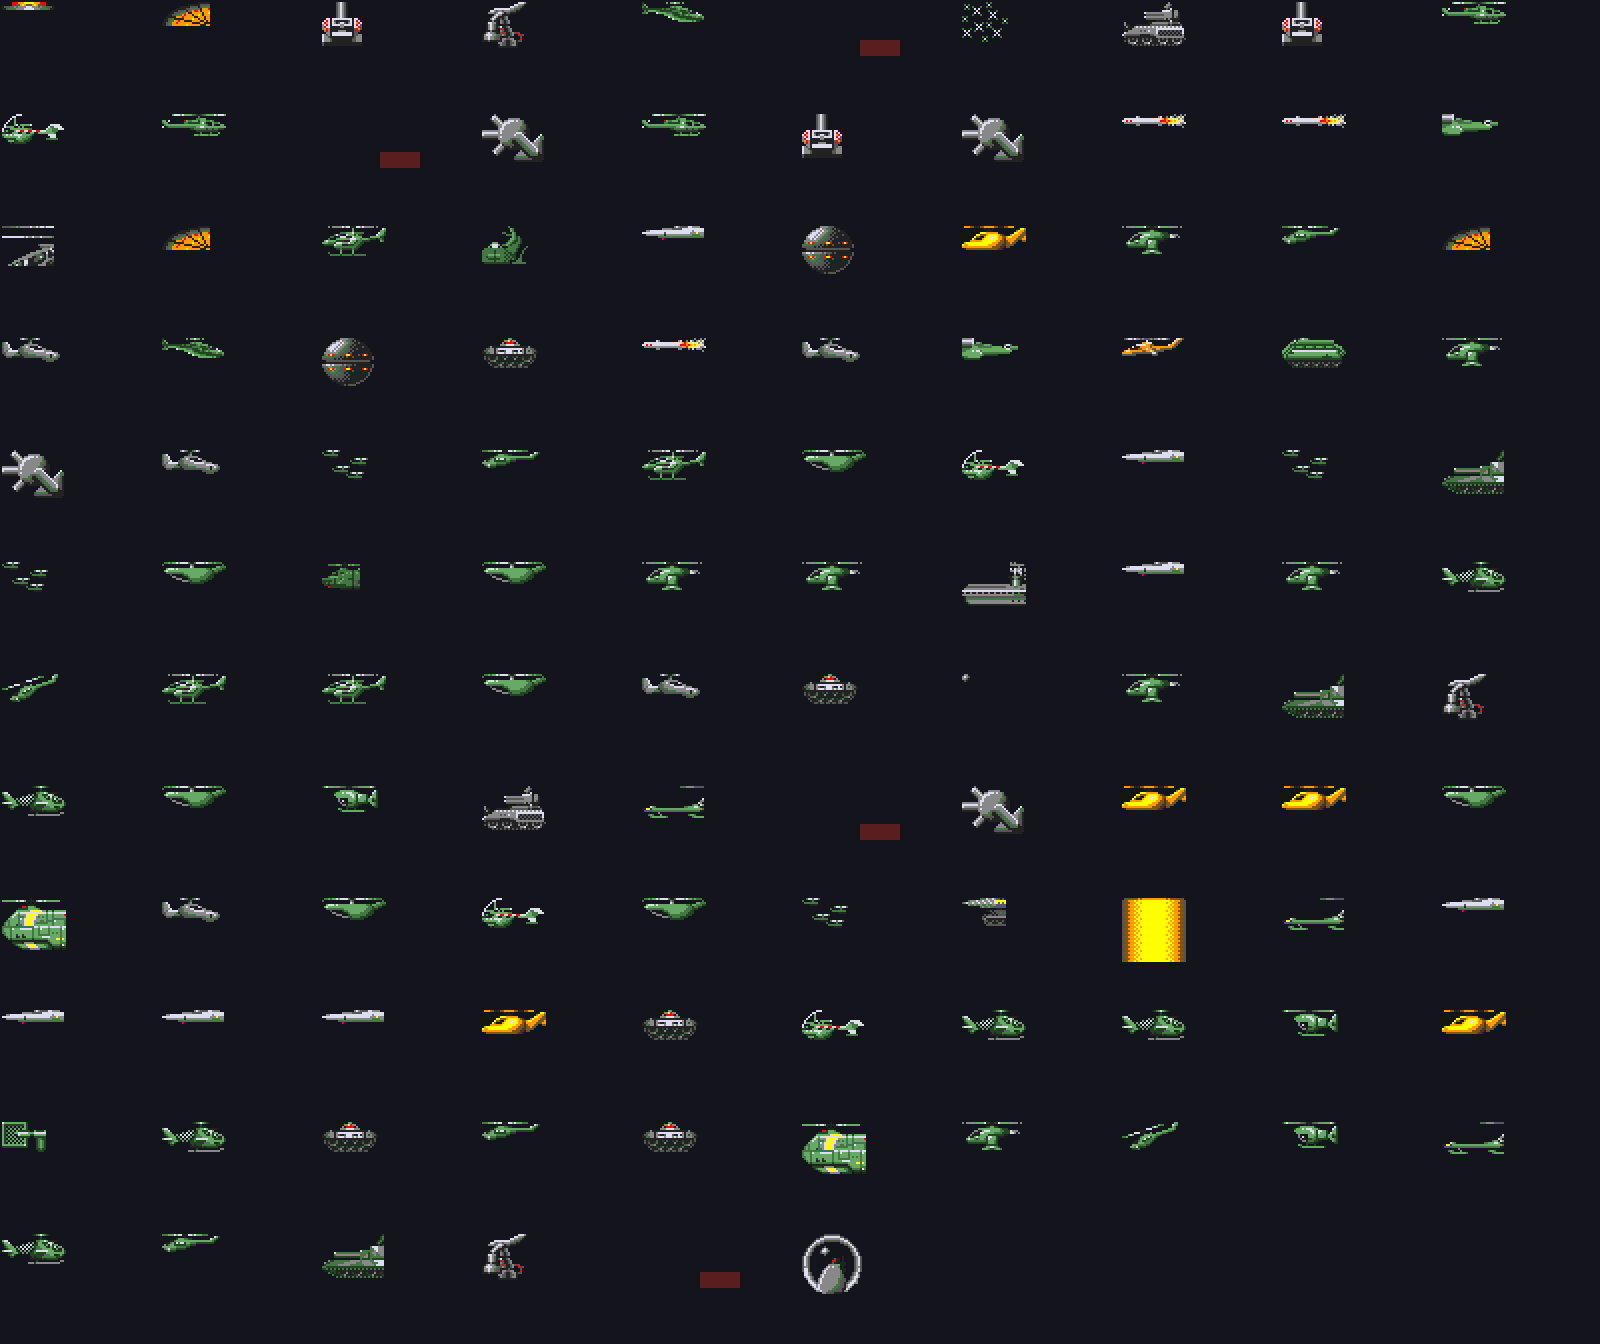
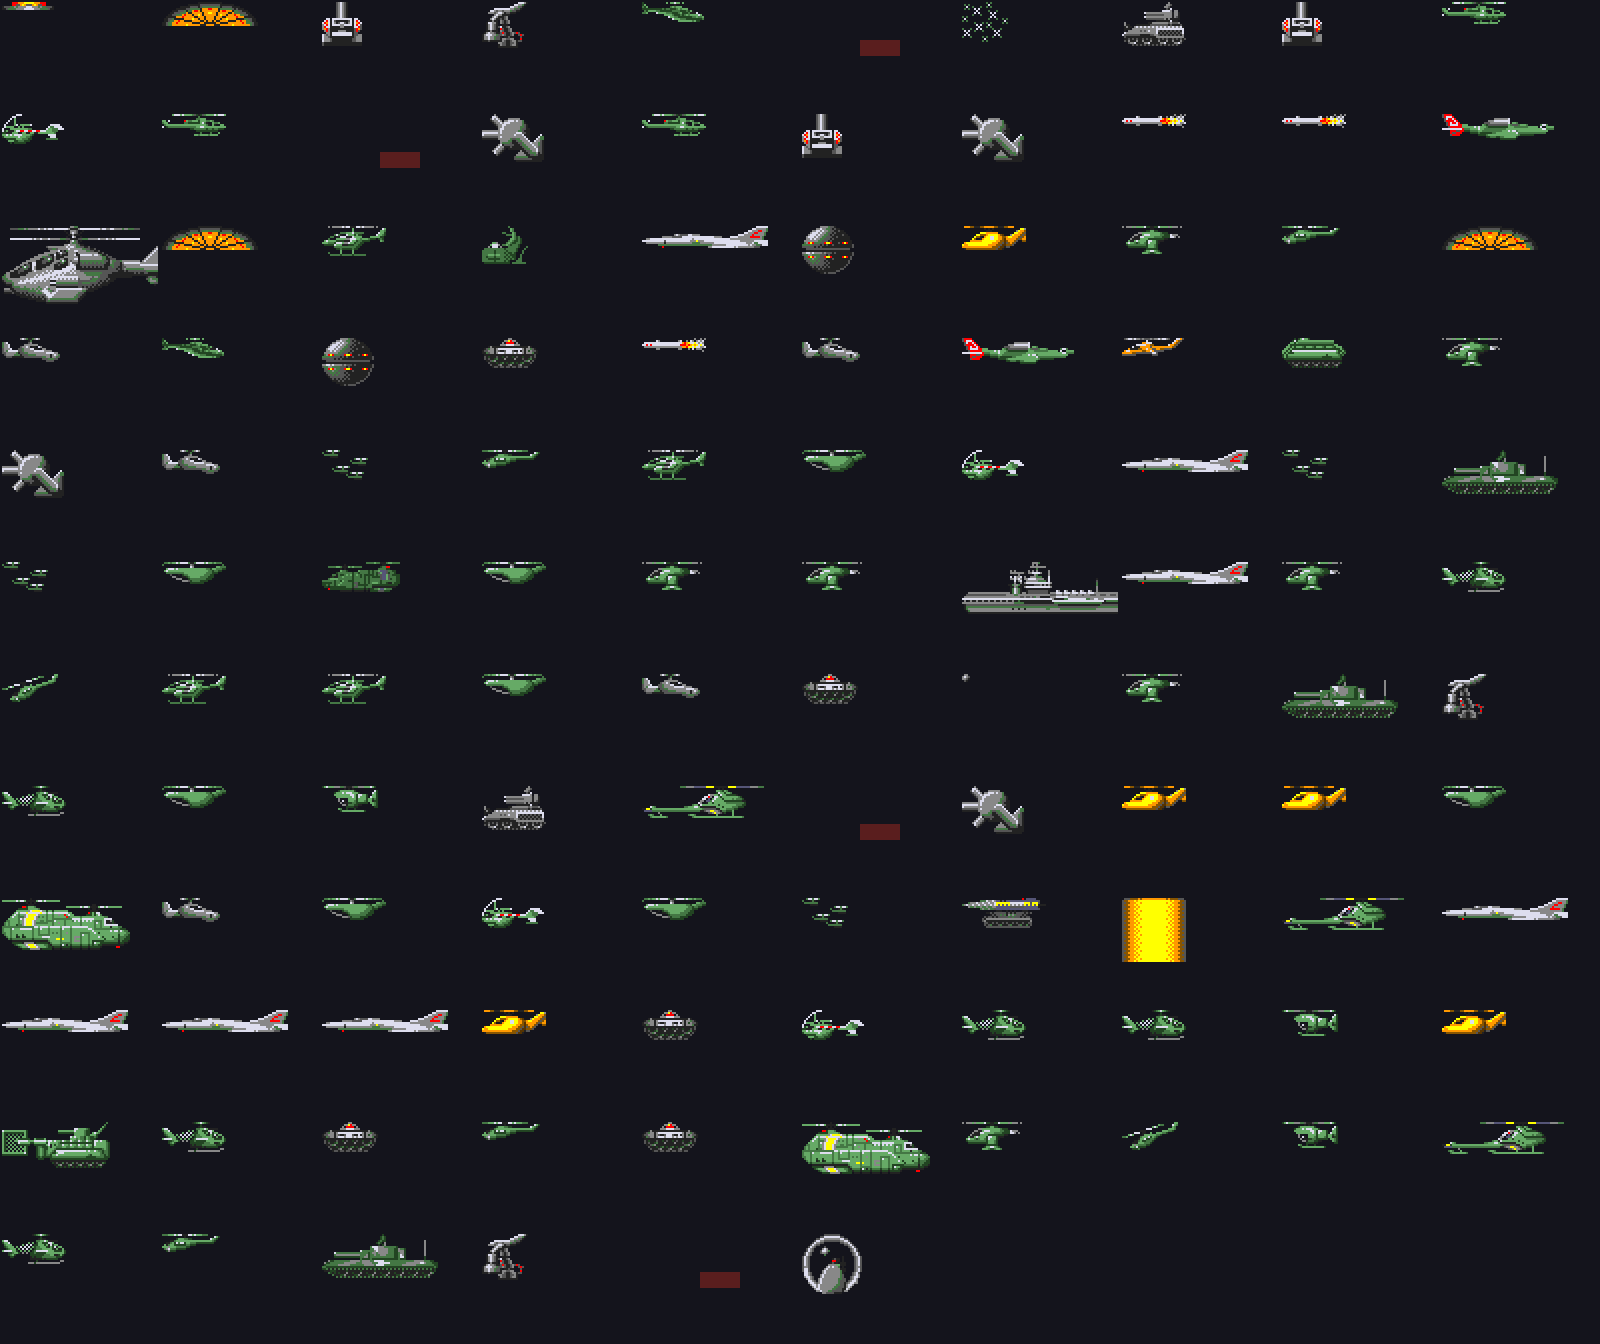
Draw composite objects whole
Many objects are chains of sprites: a table at $49D4C gives each sprite
an offset and the next piece, and sub_712D8 draws the linked pieces
first at the same position. The remake, the level maps and the wave
images only drew the first piece (and missed the offsets), so the
gunship boss, tanks, jets, wrecks and other big enemies were cut off.
Hitboxes now cover the whole chain.

diff --git a/remake/js/game.js b/remake/js/game.js
@@ -186,10 +186,15 @@ SW.game = (function () {
 
   // Boxes in object coordinates (sprites are drawn 15 px higher, like sub_712AA).
   function spriteBox(i, x, y) {
-    const s = SW.gfx.sprite(i);
+    let s = SW.gfx.sprite(i);
     if (!s) return { l: x - 8, r: x + 8, t: y - 8, b: y + 8 };
-    const l = x - s.hx, t = y - s.hy;
-    return { l: l + 3, r: l + s.w - 3, t: t + 2, b: t + s.h - 2 };
+    const box = { l: 1e9, r: -1e9, t: 1e9, b: -1e9 };
+    for (let n = 0; s && n < 8; n++, s = s.next ? SW.gfx.sprite(s.next) : null) {   // whole chain
+      const l = x - s.hx, t = y - s.hy;
+      box.l = Math.min(box.l, l + 3); box.r = Math.max(box.r, l + s.w - 3);
+      box.t = Math.min(box.t, t + 2); box.b = Math.max(box.b, t + s.h - 2);
+    }
+    return box;
   }
   function enemyBox(e) {
     if (e.hw && e.hh) return { l: e.x - e.hw, r: e.x + e.hw, t: e.y - e.hh, b: e.y + e.hh };
@@ -361,9 +366,13 @@ SW.game = (function () {
 
   // ---------------------------------------------------------------- draw
 
-  function drawSprite(i, x, y) {
+  // sub_712D8: a sprite linked to another piece draws that piece first,
+  // at the same position, so composite objects come out whole.
+  function drawSprite(i, x, y, depth) {
     const s = SW.gfx.sprite(i);
-    if (s) ctx.drawImage(s.cv, Math.round(x - s.hx), Math.round(y - 15 - s.hy));
+    if (!s) return;
+    if (s.next && (depth || 0) < 8) drawSprite(s.next, x, y, (depth || 0) + 1);
+    ctx.drawImage(s.cv, Math.round(x - s.hx), Math.round(y - 15 - s.hy));
   }
 
   function text(str, x, y, colour, align) {

diff --git a/remake/js/gfx.js b/remake/js/gfx.js
@@ -4,6 +4,10 @@
 SW.gfx = (function () {
   const { be16, bes16, be32, tracks } = SW.adf;
   const SPRITE_PTRS = 0x4A498, SPRITE_REC_BIAS = 0x5F3B8, SPRITE_PIX = 0x4AAD8;
+  // Per sprite: x/y offset (signed bytes) and the next piece of a composite
+  // object (word, 0 = none). $715C0 folds the offset into the hotspot and the
+  // link into record field $C; sub_712D8 draws the linked piece first.
+  const SPRITE_LINKS = 0x49D4C;
   const PALETTES = 0x67732, LEVEL_TRACKS = 0x6B924, LEVEL_PTRS = 0x69E3C;
   const GROUND_BANK = 0x62272;
 
@@ -32,7 +36,10 @@ SW.gfx = (function () {
         px[y * w + x] = c;
       }
     }
-    return { w, h: rows, hx: bes16(mem, rec + 6), hy: bes16(mem, rec + 8), px };
+    const dx = (mem[SPRITE_LINKS + idx * 4] << 24) >> 24, dy = (mem[SPRITE_LINKS + idx * 4 + 1] << 24) >> 24;
+    const next = be16(mem, SPRITE_LINKS + idx * 4 + 2);
+    return { w, h: rows, hx: bes16(mem, rec + 6) - dx, hy: bes16(mem, rec + 8) - dy, px,
+             next: next > 0 && next < 400 ? next : 0 };
   }
 
   function amigaColour(c) {
@@ -117,7 +124,7 @@ SW.gfx = (function () {
     let s = spriteCache.get(i);
     if (s === undefined) {
       const d = spriteData[i];
-      s = d ? { cv: toCanvas(d.w, d.h, d.px, true), w: d.w, h: d.h, hx: d.hx, hy: d.hy } : null;
+      s = d ? { cv: toCanvas(d.w, d.h, d.px, true), w: d.w, h: d.h, hx: d.hx, hy: d.hy, next: d.next } : null;
       spriteCache.set(i, s);
     }
     return s;

diff --git a/remake/index.html b/remake/index.html
@@ -33,12 +33,12 @@
   </div>
   <canvas id="screen" width="320" height="200"></canvas>
 </div>
-<script src="js/hints.js?v=8"></script>
-<script src="js/adf.js?v=8"></script>
-<script src="js/gfx.js?v=8"></script>
-<script src="js/input.js?v=8"></script>
-<script src="js/enemies.js?v=8"></script>
-<script src="js/game.js?v=8"></script>
+<script src="js/hints.js?v=9"></script>
+<script src="js/adf.js?v=9"></script>
+<script src="js/gfx.js?v=9"></script>
+<script src="js/input.js?v=9"></script>
+<script src="js/enemies.js?v=9"></script>
+<script src="js/game.js?v=9"></script>
 <script>
 "use strict";
 (function () {

diff --git a/Research/tools/waves.py b/Research/tools/waves.py
@@ -149,6 +149,40 @@ def sprite_image(mem, idx, pal):
     return img
 
 
+SPRITE_LINKS = 0x49D4C   # per sprite: dx, dy (signed bytes), next piece (word)
+
+
+def sprite_hotspot(mem, idx):
+    """Hotspot after $715C0 folds in the offset from the link table."""
+    rec = (struct.unpack_from(">I", mem, SPRITE_PTRS + idx * 4)[0] + SPRITE_REC_BIAS) & 0xFFFFFFFF
+    hx, hy = struct.unpack_from(">hh", mem, rec + 6)
+    dx, dy, nxt = struct.unpack_from(">bbh", mem, SPRITE_LINKS + idx * 4)
+    return hx - dx, hy - dy, (nxt if 0 < nxt < 400 else 0)
+
+
+def composite(mem, idx, pal_unused=None):
+    """Whole object as sub_712D8 draws it: (rows, hx, hy), linked pieces under."""
+    pieces, n = [], idx
+    while n and len(pieces) < 8:
+        hx, hy, nxt = sprite_hotspot(mem, n)
+        pieces.append((sprite_image(mem, n, None), hx, hy))
+        n = nxt
+    if idx == 0:
+        hx, hy, _ = sprite_hotspot(mem, 0)
+        pieces = [(sprite_image(mem, 0, None), hx, hy)]
+    left = min(-hx for _, hx, _ in pieces)
+    top = min(-hy for _, _, hy in pieces)
+    right = max(-hx + len(img[0]) for img, hx, _ in pieces)
+    bottom = max(-hy + len(img) for img, _, hy in pieces)
+    out = [[0] * (right - left) for _ in range(bottom - top)]
+    for img, hx, hy in reversed(pieces):          # linked pieces first, the head on top
+        for y, row in enumerate(img):
+            for x, c in enumerate(row):
+                if c:
+                    out[y - hy - top][x - hx - left] = c
+    return out, -left, -top
+
+
 def timeline(mem, lv, events, path):
     """One row per wave: clock bar on the left, sprite on the right."""
     pal = [((c >> 8 & 15) * 17, (c >> 4 & 15) * 17, (c & 15) * 17)
@@ -167,7 +201,7 @@ def timeline(mem, lv, events, path):
         for k in range(min(count or 1, 6)):
             if not frames:
                 break
-            img = sprite_image(mem, frames[0][0], pal)
+            img = composite(mem, frames[0][0])[0]
             for yy, row in enumerate(img[:row_h - 2]):
                 for xx, c in enumerate(row):
                     if c and x0 + xx < width:
@@ -193,7 +227,7 @@ def legend(mem, uses, path):
                 for xx in range(x0 + 30, x0 + 50):
                     px[yy][xx] = (90, 30, 30)
             continue
-        img = sprite_image(mem, frames[0][0], pal)
+        img = composite(mem, frames[0][0])[0]
         for yy, row in enumerate(img[:cell_h - 2]):
             for xx, c in enumerate(row[:cell_w - 2]):
                 if c:

diff --git a/Research/tools/maps.py b/Research/tools/maps.py
@@ -23,7 +23,7 @@ import sys
 sys.path.insert(0, __file__.rsplit("/", 1)[0])
 from extract import tracks, write_png  # noqa: E402
 from levels import LEVEL_PTRS, LEVEL_TRACKS, PALETTES, column_pixels, stream  # noqa: E402
-from waves import scripts, sprite_image, walk  # noqa: E402
+from waves import composite, scripts, walk  # noqa: E402
 
 GROUND_BANK = 0x62272
 LEVEL_LEN = 4704
@@ -57,11 +57,6 @@ def scenery(mem, level, length):
         elif w:
             out.append((pos + 0x150, w))
     return out
-
-
-def sprite_rec(mem, idx):
-    rec = (struct.unpack_from(">I", mem, 0x4A498 + idx * 4)[0] + 0x5F3B8) & 0xFFFFFFFF
-    return struct.unpack_from(">hh", mem, rec + 6)
 
 
 def blit(px, img, x0, y0, pal):
@@ -112,8 +107,8 @@ def main():
         # scenery objects
         objs = scenery(mem, level, LEVEL_LEN)
         for wx, spr in objs:
-            hx, hy = sprite_rec(mem, spr)
-            blit(px, sprite_image(mem, spr, pal), wx - hx, SCENERY_Y - hy, pal)
+            img, hx, hy = composite(mem, spr)       # linked pieces too (sub_712D8)
+            blit(px, img, wx - hx, SCENERY_Y - hy, pal)
 
         # enemy waves: icon where the wave enters (clock + one screen)
         band = BACK_H + GROUND_H
@@ -129,7 +124,7 @@ def main():
                     if 0 <= xx < width:
                         px[yy][xx] = (200, 160, 40)
             if frames:
-                img = sprite_image(mem, frames[0][0], pal)
+                img = composite(mem, frames[0][0])[0]
                 blit(px, [r[:40] for r in img[:BAND_H - 6]],
                      x - min(len(img[0]), 40) // 2, band + 4 + (lane % 2) * 2, pal)
             lane += 1

diff --git a/Research/NOTES.md b/Research/NOTES.md
@@ -117,6 +117,17 @@ Two tasks start with each level, before the wave scheduler (`$6EECC`):
 - Setup routine `$715C0` relocates 400 object records and builds their masks.
 - Pointer table `$4A498` (400 longs, record = value + `$5F3B8`).
 - Record: `+0` width (words), `+2` rows, `+6/+8` hotspot, `+$E` pixel offset from `$4AAD8`.
+- **Composite objects**: table `$49D4C`, 4 bytes per sprite: x/y offset
+  (signed bytes) and the next piece (word, 0 = none). `$715C0` subtracts the
+  offset from the hotspot and stores the link in record field `$C`;
+  `sub_712D8` draws the linked piece first, at the same position, then the
+  sprite itself (recursively), so one sprite number draws a whole object.
+  88 sprites use it: e.g. the jet 85+86, the three-piece plane 94→95→96,
+  tanks 162+163 (and wrecks, raised 12 px), the gunship boss
+  240→241→246→244→245, boss B's rear 218+219, the scenery stack
+  361→362→363; others only shift (jeep frames −2 px, mines −16 px).
+  The sprite sheets show single pieces; the maps, wave images and the remake
+  draw whole objects.
 - Pixels: row-interleaved, 4 bitplanes per row. Masks are built at runtime into `$2AE6C+`.
 - Palettes: `sub_69BC8` copies 32 colours from `a0` into the target palette at
   `-$7FBC(a6)`; the fader at `$6C398` blends the live palette towards it.
